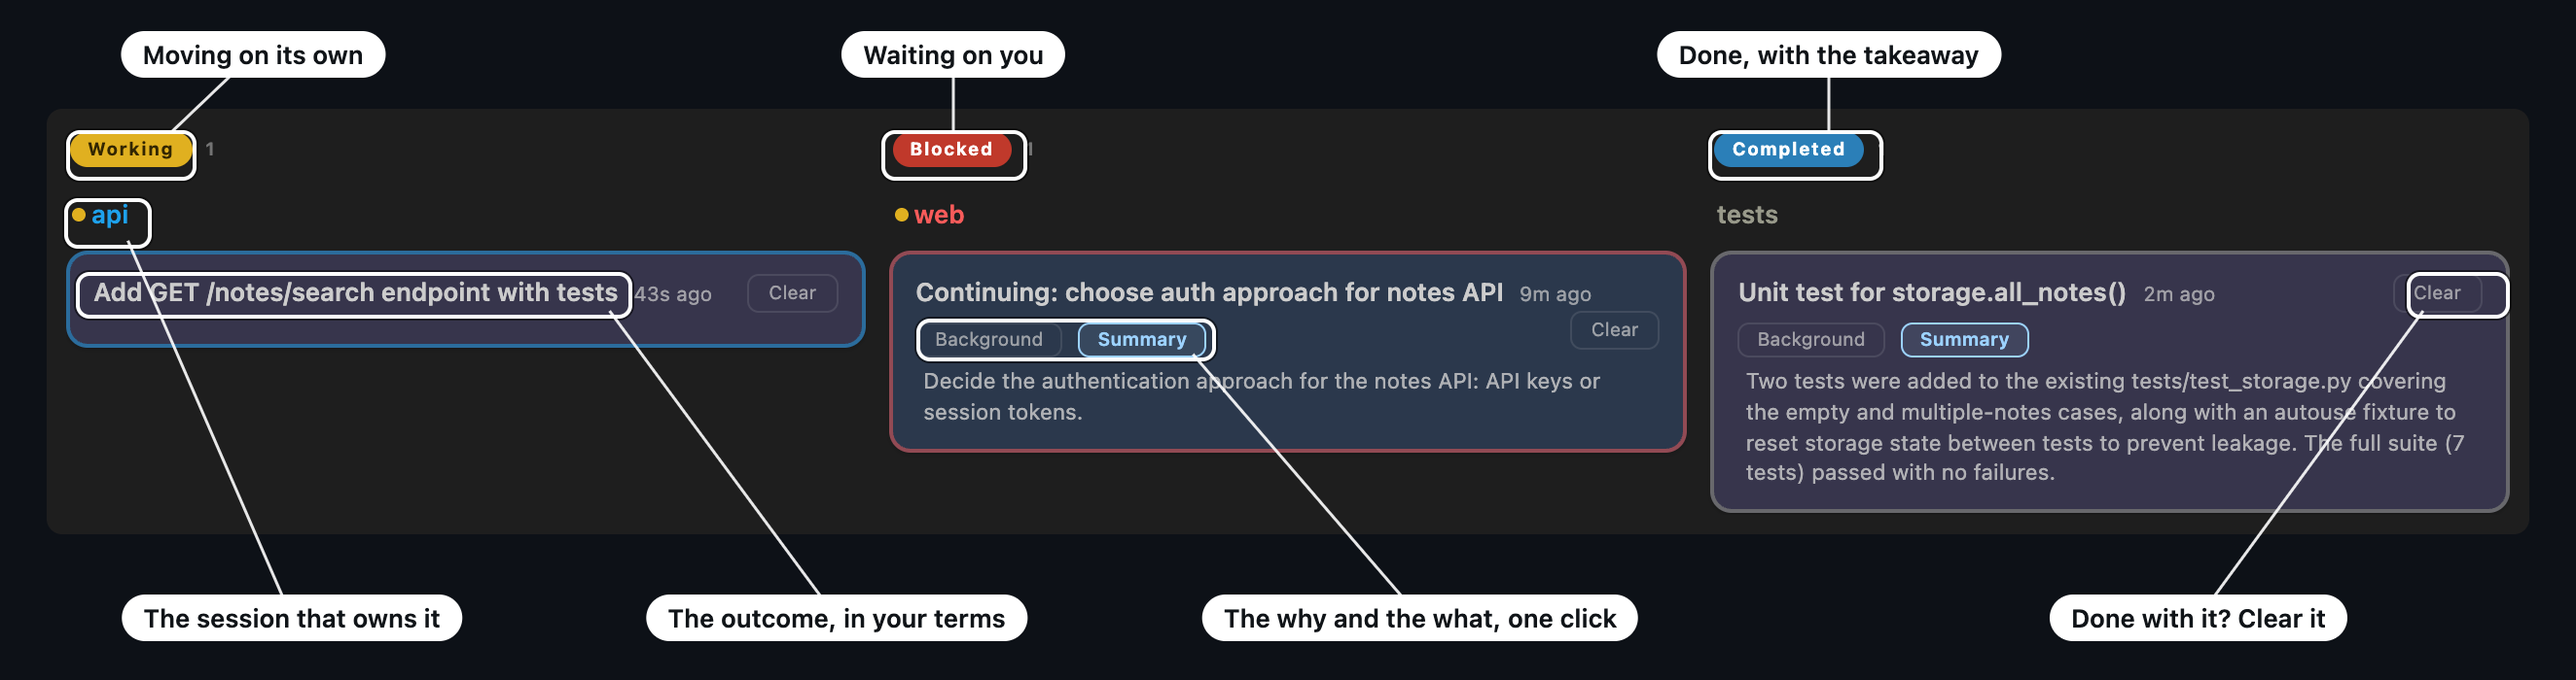
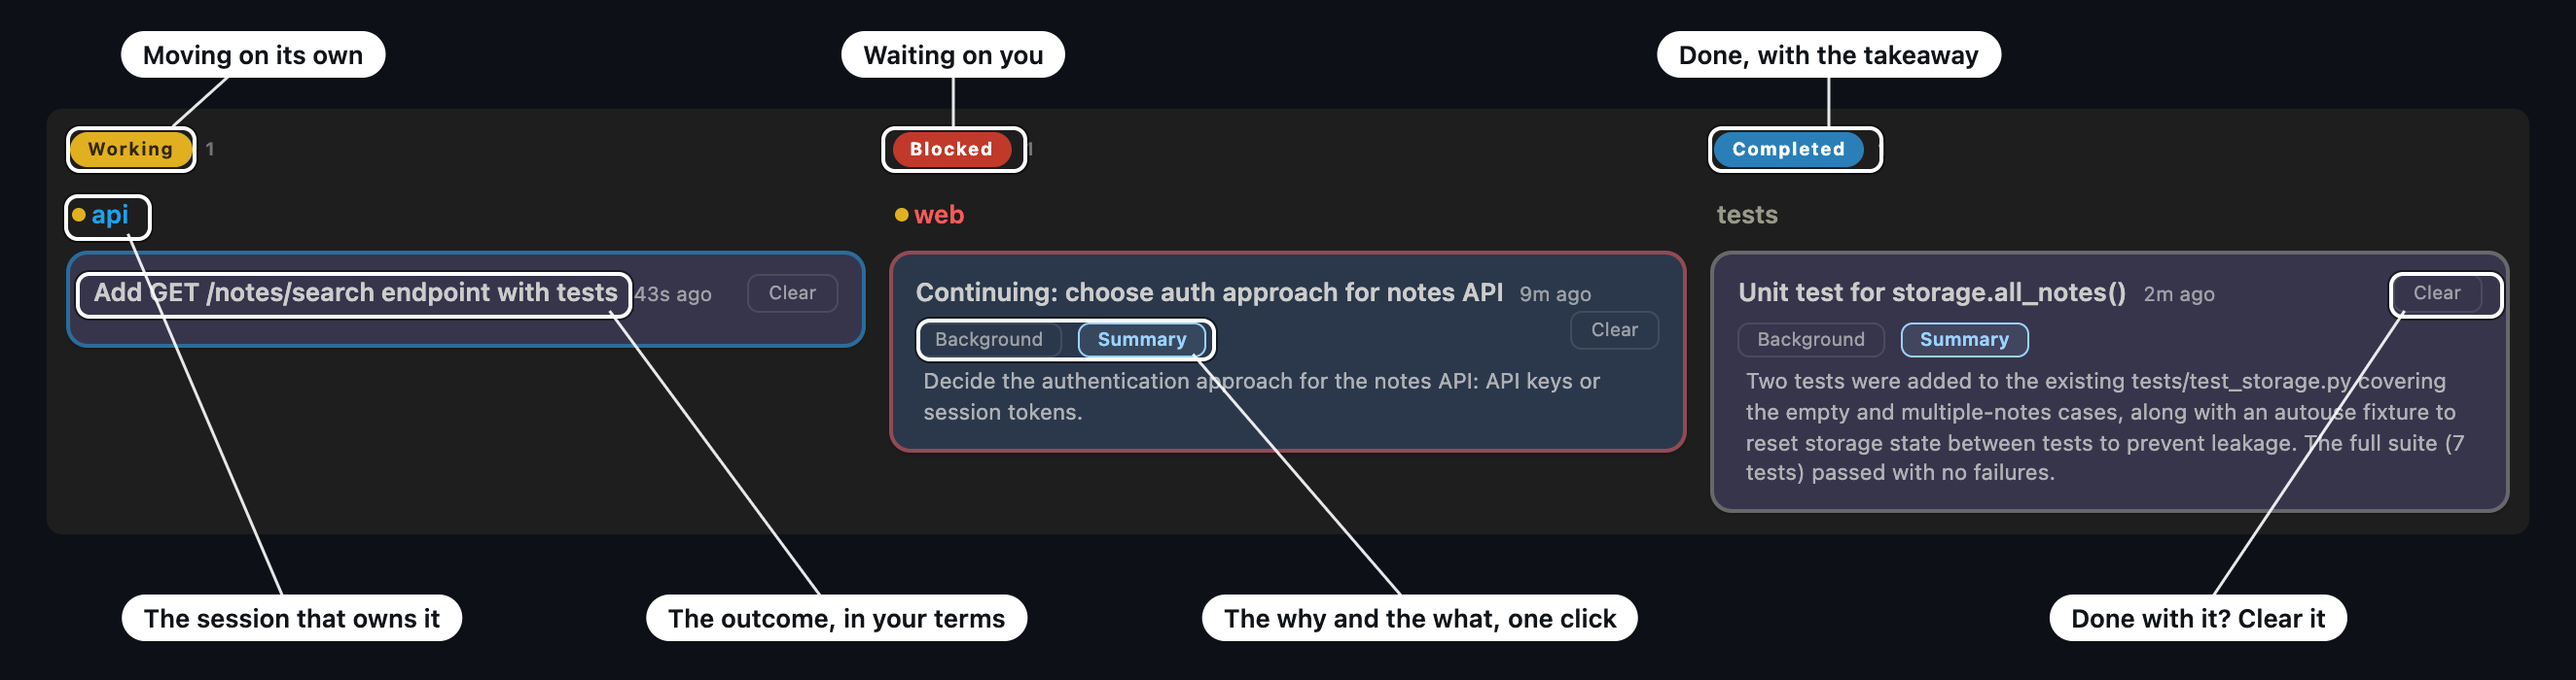
Docs: plain-spoken pass over home and guide
Home: the front-end paragraph states what Romp is and links the backends and
remote access; a key-features line leads the sections, which step up to full
headings; the redundant quick start gives way to a getting-started pointer.
Getting started: Node.js is a real requirement (the kernel manager runs on
it), the VS Code aside and the where-next section are gone. Guide: pages take
plain names (Task management, Automatic nudges, Messaging between agents),
the fleet page opens with the four views and tours chat first, the status
section speaks plainly, task management reads as one flowing page, sessions
gains a search section, backends move to the reference, and remote access
leads with what federation gives you. Feed figure boxes re-center on their
chips.

diff --git a/docs/guide/the-fleet.md b/docs/guide/the-fleet.md
@@ -3,24 +3,22 @@
 See every agent in one place: what's running, what's stuck, and what's
 waiting on you, and for how long.
 
+Romp shows the fleet through four views of the same live state: the **chat**
+for talking to one agent, the **feed** for the work as task cards, the
+**outline** for every session with its open tasks, and the **timeline** for
+the sessions over time.
+
 ![The dashboard: chat, feed, and timeline around one fleet](../assets/guide/dashboard-annotated.png){ width="100%" }
 
-One kernel serves four views of the same live state. The **chat** is where you
-talk to one agent. The **feed** shows the work as task cards. The **fleet**
-lists every session with its open tasks. The **timeline** lays the sessions
-out over time. Reach for whichever matches the question: "what needs me" is
-the feed; "what happened while I was away" is the timeline.
+## The chat
 
-## Status, in one color language
+The transcript, condensed for scanning: turns read as gists, tool calls fold
+into runs, and every detail stays one click deeper. Expand a run for its
+calls, and a call for its full input and output.
 
-Tabs, lanes, and cards all speak the same states:
+![Tool calls fold into runs; each expands to one line per call](../assets/guide/chat-detail.png){ width="100%" }
 
-![The five session states and what each means](../assets/guide/status-legend.png){ width="70%" }
-
-Blocked means a decision only you can make. Waiting on a build, a peer, or an
-API retry never shows as blocked, so a red chip is always worth a look.
-
-## The feed: what needs you
+## The feed
 
 Cards land in three columns: moving on its own, waiting on you, and finished.
 A completed card carries its takeaway, so you read the outcome without
@@ -28,9 +26,9 @@ opening anything.
 
 ![The feed's three columns, with the cues on a card](../assets/guide/feed-annotated.png){ width="100%" }
 
-[Tasks, not transcripts](tasks.md) covers what a card holds.
+[Task management](tasks.md) covers what a card holds.
 
-## The timeline: the fleet over time
+## The timeline
 
 Each lane is one session; bars are stretches of work.
 
@@ -40,10 +38,8 @@ The story of any bar is a hover away:
 
 ![Hovering a bar pops what happened and when](../assets/guide/timeline-hover.png){ width="100%" }
 
-## The chat: a transcript built for reading
+## Status colors
 
-Turns read as gists and tool calls fold into runs, so scanning is cheap and
-every detail stays one click deeper: expand a run for its calls, and a call
-for its full input and output.
+The same colors mean the same states on tabs, timeline lanes, and cards:
 
-![Tool calls fold into runs; each expands to one line per call](../assets/guide/chat-detail.png){ width="100%" }
+![The five session states and what each means](../assets/guide/status-legend.png){ width="70%" }

diff --git a/docs/index.md b/docs/index.md
@@ -17,25 +17,30 @@ happening. It does this by keeping track of every agent and the tasks it is
 working on, surfacing what needs your attention and keeping the rest moving on
 its own.
 
-Romp works with Claude Code today, layering onto the sessions you already run
-without changing how you work.
+Romp is a front end for Claude Code. It can layer onto the
+[terminal sessions you already run](reference.md#session-backends) or drive
+sessions of its own, and the dashboard opens in the browser,
+[from any of your devices](guide/remote-access.md), or as a VS Code / Cursor
+extension.
+
+Its key features:
 
 <!-- Feature sections. Real captures live in docs/assets/; the README points at the same files.
      The docs home embeds the MP4 in a <video> for the last feature; the README embeds the GIF. -->
 
-### Everything at a glance
+## Everything at a glance
 
 What's running, what's stuck, and what needs your attention.
 
 ![Every session with its status in one view](assets/tile-glance.png){ width="100%" }
 
-### A task management layer
+## A task management layer
 
 Automatically generated by analyzing agent transcripts, it tracks all the work so you don't have to.
 
 ![Work grouped into task cards](assets/tile-tasks.png){ width="100%" }
 
-### Context where you need it
+## Context where you need it
 
 What the agent did and why, without having to scroll through transcripts.
 
@@ -47,7 +52,7 @@ What the agent did and why, without having to scroll through transcripts.
 
 </div>
 
-### Coordination you can see
+## Coordination you can see
 
 Agents asking each other questions and handing off tasks, through a mailbox Romp gives them.
 
@@ -55,21 +60,10 @@ Agents asking each other questions and handing off tasks, through a mailbox Romp
 
 ![The same message, shown in the chat](assets/tile-coordination-chat.png){ .romp-narrow }
 
-### Detail on demand
+## Detail on demand
 
 Hover a work bar, open a summary, expand a tool call, and more.
 
 <video src="assets/overview.mp4" autoplay loop muted playsinline width="100%"></video>
 
-## Quick start
-
-```bash
-git clone https://github.com/romp-on/romp.git
-cd romp
-./install.sh
-export PATH="$PATH:$(pwd)/bin"   # add this to your shell rc
-```
-
-Then open `http://127.0.0.1:7433/` in any browser and start a session.
-[Getting started](getting-started.md) walks through the first session, and the
-Guide tours each capability from there.
+Install and first run: [Getting started](getting-started.md).

diff --git a/docs/guide/tasks.md b/docs/guide/tasks.md
@@ -1,14 +1,12 @@
-# Tasks, not transcripts
+# Task management
 
-Romp turns what each agent does into task cards, so you follow the work by
+Romp organizes what the agents do into task cards, so you follow the work by
 outcome instead of scrolling transcripts.
 
 The cards are generated automatically: Romp's judges read each session's
 transcript as it grows, group the work into tasks, and keep every card's
 status and summary current, with no reporting step for the agent and no
 filing step for you.
-
-## One card, three depths
 
 The title is the gist. **Background** is why the work exists: what led to it
 and whose ask it is. **Summary** is what the agent did, written to stand on
@@ -17,15 +15,9 @@ click, so you spend attention only where the work earns it.
 
 ![The anatomy of a task card](../assets/guide/card-anatomy.png){ width="100%" }
 
-## Tasks follow the work, not the session
-
-A session that interleaves several efforts gets a card per effort, and one
-effort handed across sessions stays a single card. Ownership and status ride
-along, so a handoff never drops a thread.
-
-## Coming back to a thread
-
-Summaries favor the latest stretch of work, so a card you return to after
-hours away tells you what changed since you last looked. When you're done
-with a card, **Clear** it (**Undo clear** brings it back); cleared cards are
-archived.
+Cards follow the work rather than the session: a session that interleaves
+several efforts gets a card per effort, and one effort handed across sessions
+stays a single card, so a handoff never drops a thread. Summaries favor the
+latest stretch of work, and a card you return to after hours away tells you
+what changed since you last looked. When you're done with a card, **Clear**
+it (**Undo clear** brings it back); cleared cards are archived.

diff --git a/docs/guide/remote-access.md b/docs/guide/remote-access.md
@@ -8,11 +8,22 @@ The kernel runs on your machine and serves the dashboard on
 Everything Romp stores stays local; the only external traffic is the `claude`
 CLI you already use.
 
-Machines federate into one fleet, and your phone reaches the same dashboard:
+## More machines, one fleet
+
+Federation is the heart of remote access: every machine runs its own kernel,
+and attached machines present as a single fleet.
 
 ![One fleet across your phone, your laptop, and a remote host](../assets/guide/federation.png){ width="100%" }
 
-## More machines, one fleet
+Once a host is attached:
+
+- Its sessions appear as `host:name` tabs and timeline lanes next to your
+  local ones, and you drive them from the same chat.
+- Its task cards share the feed, so one glance covers every machine.
+- Sessions message each other across machines through the same postal
+  service, so an agent on your desktop can hand work to one on the server.
+
+Setup is one install and one click:
 
 1. On the remote machine: clone romp and run `./install.sh`
    (`ROMP_NO_EXT=1` skips the editor extension on a headless box). Make sure
@@ -21,9 +32,7 @@ Machines federate into one fleet, and your phone reaches the same dashboard:
    host.
 
 The attach fetches the remote kernel's token over ssh, opens the tunnels, and
-starts the remote kernel if it isn't running. Sessions there appear as
-`host:name` tabs and timeline lanes, and sessions message across machines the
-same way they do locally.
+starts the remote kernel if it isn't running.
 
 ## Your phone
 

diff --git a/docs/getting-started.md b/docs/getting-started.md
@@ -6,9 +6,9 @@
 - [Claude Code](https://docs.claude.com/en/docs/claude-code): the `claude` CLI
 - Python 3.10+ (the kernel picks the newest `python3.x` it can find; a
   [uv](https://docs.astral.sh/uv/)-managed one in `~/.local/bin` counts)
+- Node.js (the kernel manager runs on it)
 - [tmux](https://github.com/tmux/tmux), only if you want terminal sessions
-  (the [tmux backend](guide/sessions.md#two-backends))
-- Node.js, only if you want the VS Code / Cursor extension
+  (the [tmux backend](reference.md#session-backends))
 
 ## Install
 
@@ -25,18 +25,12 @@ login service that keeps the kernel up (`ROMP_NO_SERVICE=1` opts out).
 
 ## Your first session
 
-1. Open `http://127.0.0.1:7433/` in any browser. No VS Code required.
+1. Open `http://127.0.0.1:7433/` in any browser.
 2. Type a name into the session picker and choose **New session**.
 3. Give the agent some work in the chat.
 4. Open the **feed**. Within a few turns a task card appears, tracking what
    the agent is doing and what needs you.
 
-That card is Romp at work: [Tasks, not transcripts](guide/tasks.md) explains
+That card is Romp at work: [Task management](guide/tasks.md) explains
 what it tracks, and [The fleet at a glance](guide/the-fleet.md) tours the
 views around it.
-
-## Where next
-
-- Other machines and your phone: [Self-hosted and remote access](guide/remote-access.md)
-- Terminal sessions alongside the dashboard: [Sessions and revival](guide/sessions.md)
-- Every command and knob: [Reference](reference.md)

diff --git a/docs/guide/sessions.md b/docs/guide/sessions.md
@@ -15,18 +15,11 @@ Type a closed session's name into the picker and it offers to revive it: the
 session comes back live with its history intact. Stepping away, or shutting
 the laptop, costs nothing.
 
-The judges also keep a short archive per session (a headline and abstract of
-what it did), so a fleet of many sessions stays navigable months later.
+## Search
 
-## Two backends
+The session picker matches against every session, live or closed. The judges
+index each one with a headline and abstract of what it did, so a fleet of
+many sessions stays navigable months later.
 
-Sessions run on one of two backends, chosen per session:
-
-- **Agent SDK (the default).** The kernel drives the session through the
-  Claude Agent SDK. Sessions started from the dashboard use this; it is the
-  most robust path, with native pickers, queued sends, and model switching.
-- **tmux.** A regular Claude Code terminal session running inside tmux. Romp
-  reads the same transcript, and delivers messages and nudges by injecting
-  text into the terminal. Injection is inherently less robust than the SDK,
-  but it lets Romp ride along with the terminal Claude Code you already use:
-  run `romp <name>` and the session shows up on the dashboard like any other.
+Which backend a session runs on (Agent SDK or tmux) is a per-session choice;
+[Session backends](../reference.md#session-backends) covers the difference.

diff --git a/docs/reference.md b/docs/reference.md
@@ -36,6 +36,19 @@ romp --mail working "<note>"      # publish what this session is working on
 | `check_sent()` | Whether your sent messages were read yet |
 | `recall_message(to, id?)` | Unsend a message the recipient hasn't read |
 
+## Session backends
+
+Sessions run on one of two backends, chosen per session:
+
+- **Agent SDK (the default).** The kernel drives the session through the
+  Claude Agent SDK. Sessions started from the dashboard use this; it is the
+  most robust path, with native pickers, queued sends, and model switching.
+- **tmux.** A regular Claude Code terminal session running inside tmux. Romp
+  reads the same transcript, and delivers messages and nudges by injecting
+  text into the terminal. Injection is inherently less robust than the SDK,
+  but it lets Romp ride along with the terminal Claude Code you already use:
+  run `romp <name>` and the session shows up on the dashboard like any other.
+
 ## Configuration
 
 ### Folder click, in your terminal or editor

diff --git a/docs/guide/postal-service.md b/docs/guide/postal-service.md
@@ -1,4 +1,4 @@
-# The postal service
+# Messaging between agents (the Romp Postal Service)
 
 Sessions message each other through a mailbox Romp gives them, and every
 exchange is visible to you.

diff --git a/docs/guide/nudges.md b/docs/guide/nudges.md
@@ -1,4 +1,4 @@
-# Keeping the fleet moving
+# Automatic nudges
 
 An agent that goes idle with open work gets nudged back to it, so progress
 does not wait on you noticing a stall.
